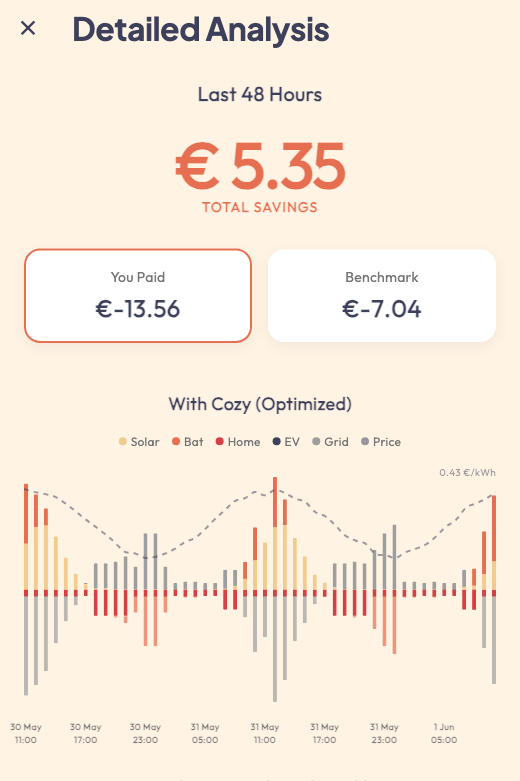
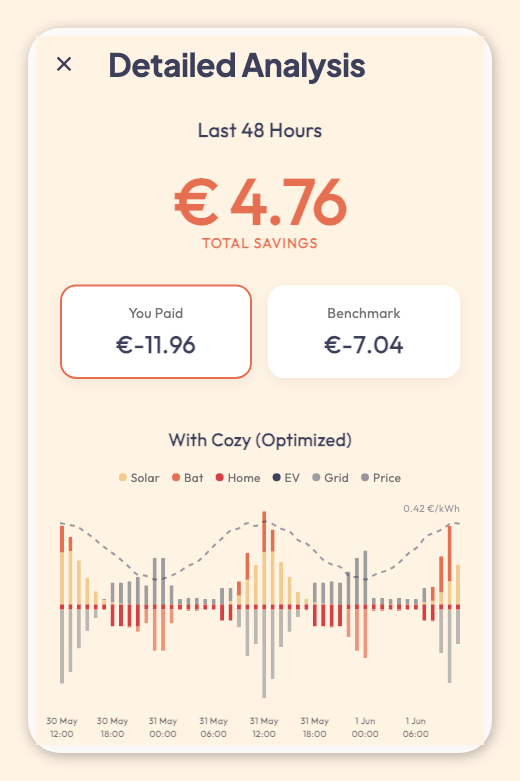
docs: regenerate dashboard and savings report screenshots in a simulated May date context to show realistic monthly savings

Changed region(s): [[0.0308, 0.0, 0.9538, 0.9834], [0.0308, 0.0307, 0.0615, 0.0615]]

diff --git a/app/lib/features/dashboard/daily_savings_card.dart b/app/lib/features/dashboard/daily_savings_card.dart
@@ -40,6 +40,7 @@ class DailySavingsCard extends ConsumerWidget {
           data: (data) {
             final savings48h = (data['summary']?['savings_eur'] ?? 0.0);
             final savingsMonth = (data['month_savings_eur'] ?? 0.0);
+            final monthLabel = data['month_label'] as String? ?? "Jun";
             
             return Row(
               mainAxisAlignment: MainAxisAlignment.spaceEvenly,
@@ -51,9 +52,8 @@ class DailySavingsCard extends ConsumerWidget {
                 ),
                 Container(height: 50, width: 1, color: Colors.grey.withOpacity(0.2)),
                 _SavingsItem(
-                  label: "Savings (DEC)", // Hardcoded for now or use formatting
+                  label: "Savings ($monthLabel)",
                   value: savingsMonth,
-                  isMonth: true,
                 ),
               ],
             );
@@ -70,22 +70,17 @@ class _SavingsItem extends StatelessWidget {
   final String label;
   final double value;
   final bool showChevron;
-  final bool isMonth;
 
   const _SavingsItem({
     required this.label, 
     required this.value, 
     this.showChevron = false,
-    this.isMonth = false
   });
 
   @override
   Widget build(BuildContext context) {
-    // Dynamic Month Label
+    // Render the label directly as received from server
     String displayLabel = label;
-    if (isMonth) {
-       displayLabel = "Savings (${DateFormat('MMM').format(DateTime.now())})";
-    }
 
     return Expanded(
       child: Column(

diff --git a/backend/api/routers/dashboard.py b/backend/api/routers/dashboard.py
@@ -139,7 +139,12 @@ def get_dashboard_summary(user: User = Depends(get_current_context)):
         if not user: return {}
 
         # 1. Savings (Last 48h)
-        now = datetime.utcnow()
+        import os
+        screenshot_time = os.getenv("COZY_SCREENSHOT_TIME")
+        if screenshot_time:
+            now = datetime.fromisoformat(screenshot_time)
+        else:
+            now = datetime.utcnow()
         now_floored = now.replace(minute=0, second=0, microsecond=0)
         
         # A. Last 48h
@@ -279,6 +284,7 @@ def get_dashboard_summary(user: User = Depends(get_current_context)):
         return DashboardResponse(
             summary=savings_data_48h,
             month_savings_eur=savings_month_eur,
+            month_label=now.strftime("%b"),
             current=current_state,
             history=[],
             forecast=forecast_points

diff --git a/backend/api/schemas.py b/backend/api/schemas.py
@@ -30,6 +30,7 @@ class ChartPoint(BaseModel):
 class DashboardResponse(BaseModel):
     summary: SavingsSummary
     month_savings_eur: float = 0.0 # Added Monthly Savings
+    month_label: Optional[str] = "Jun" # Added dynamic Month label
     current: CurrentStateResponse
     history: List[ChartPoint]
     forecast: List[ChartPoint]